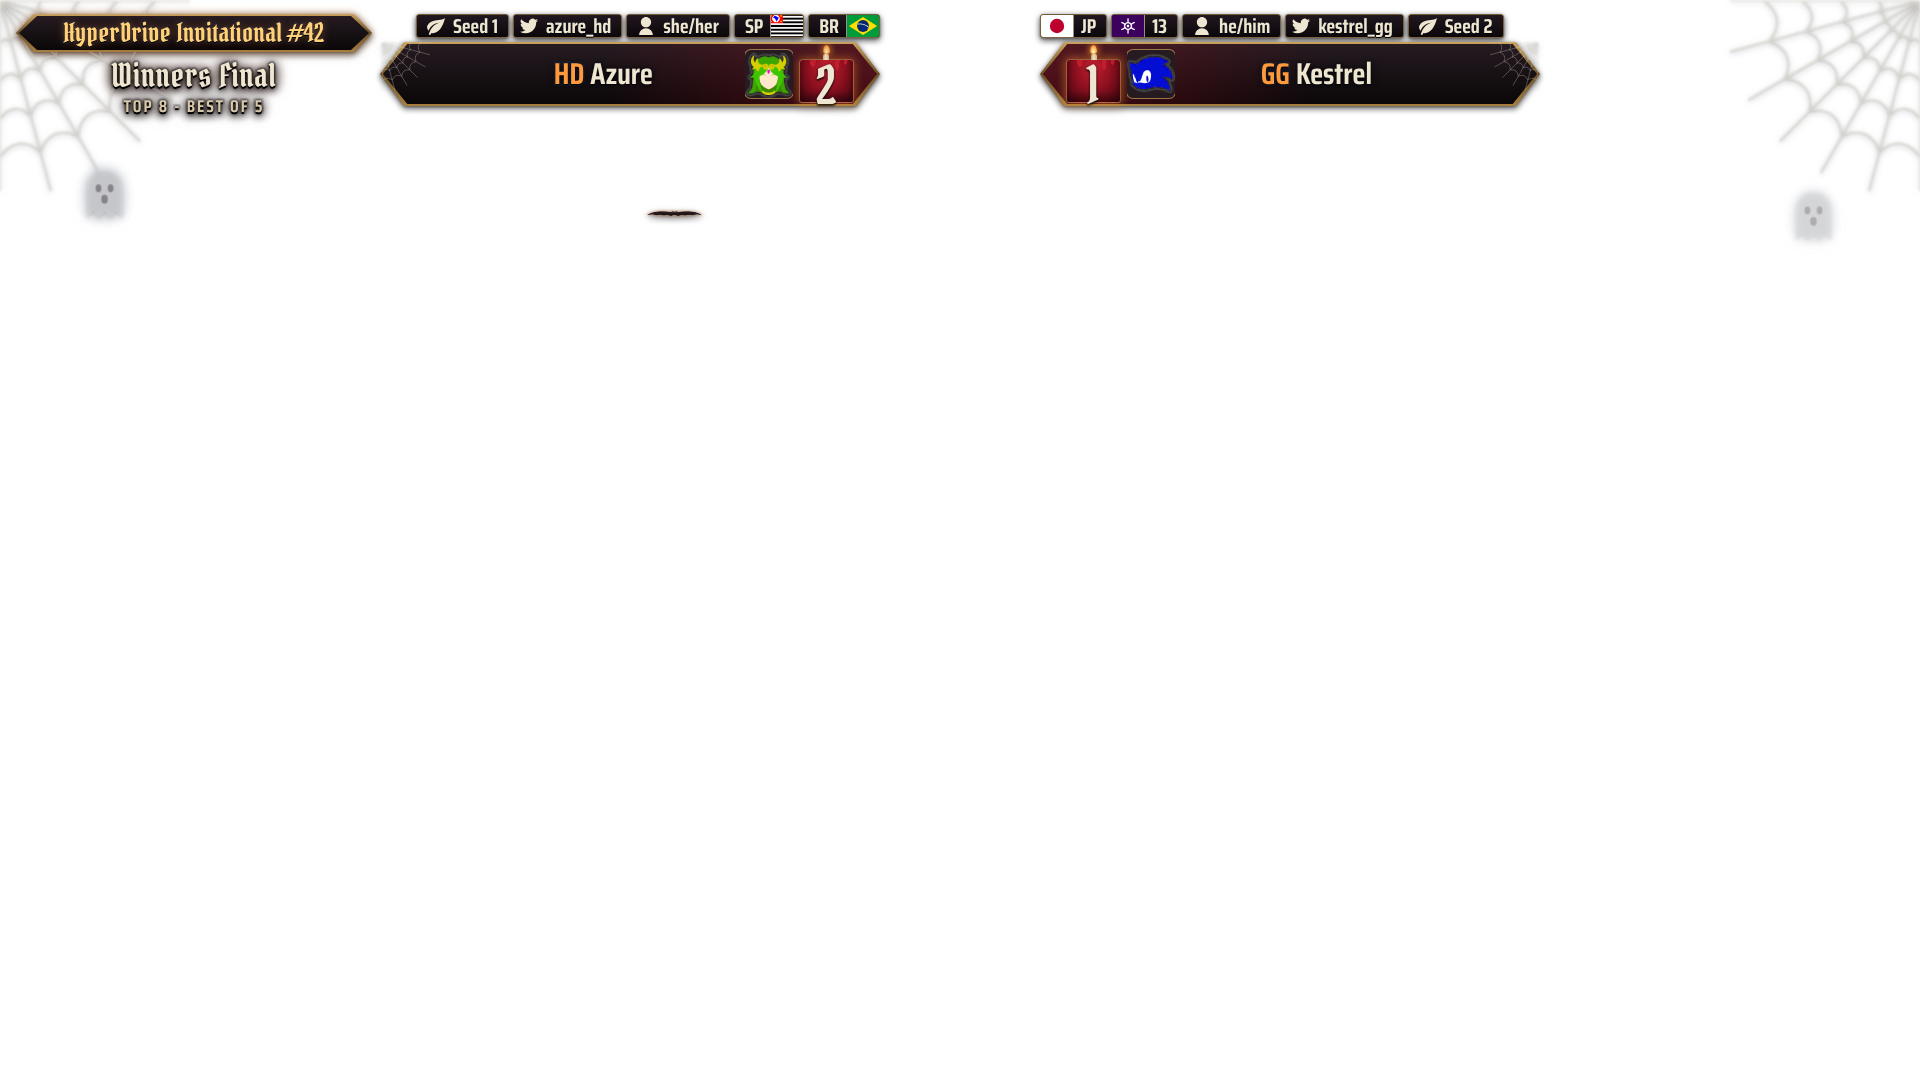
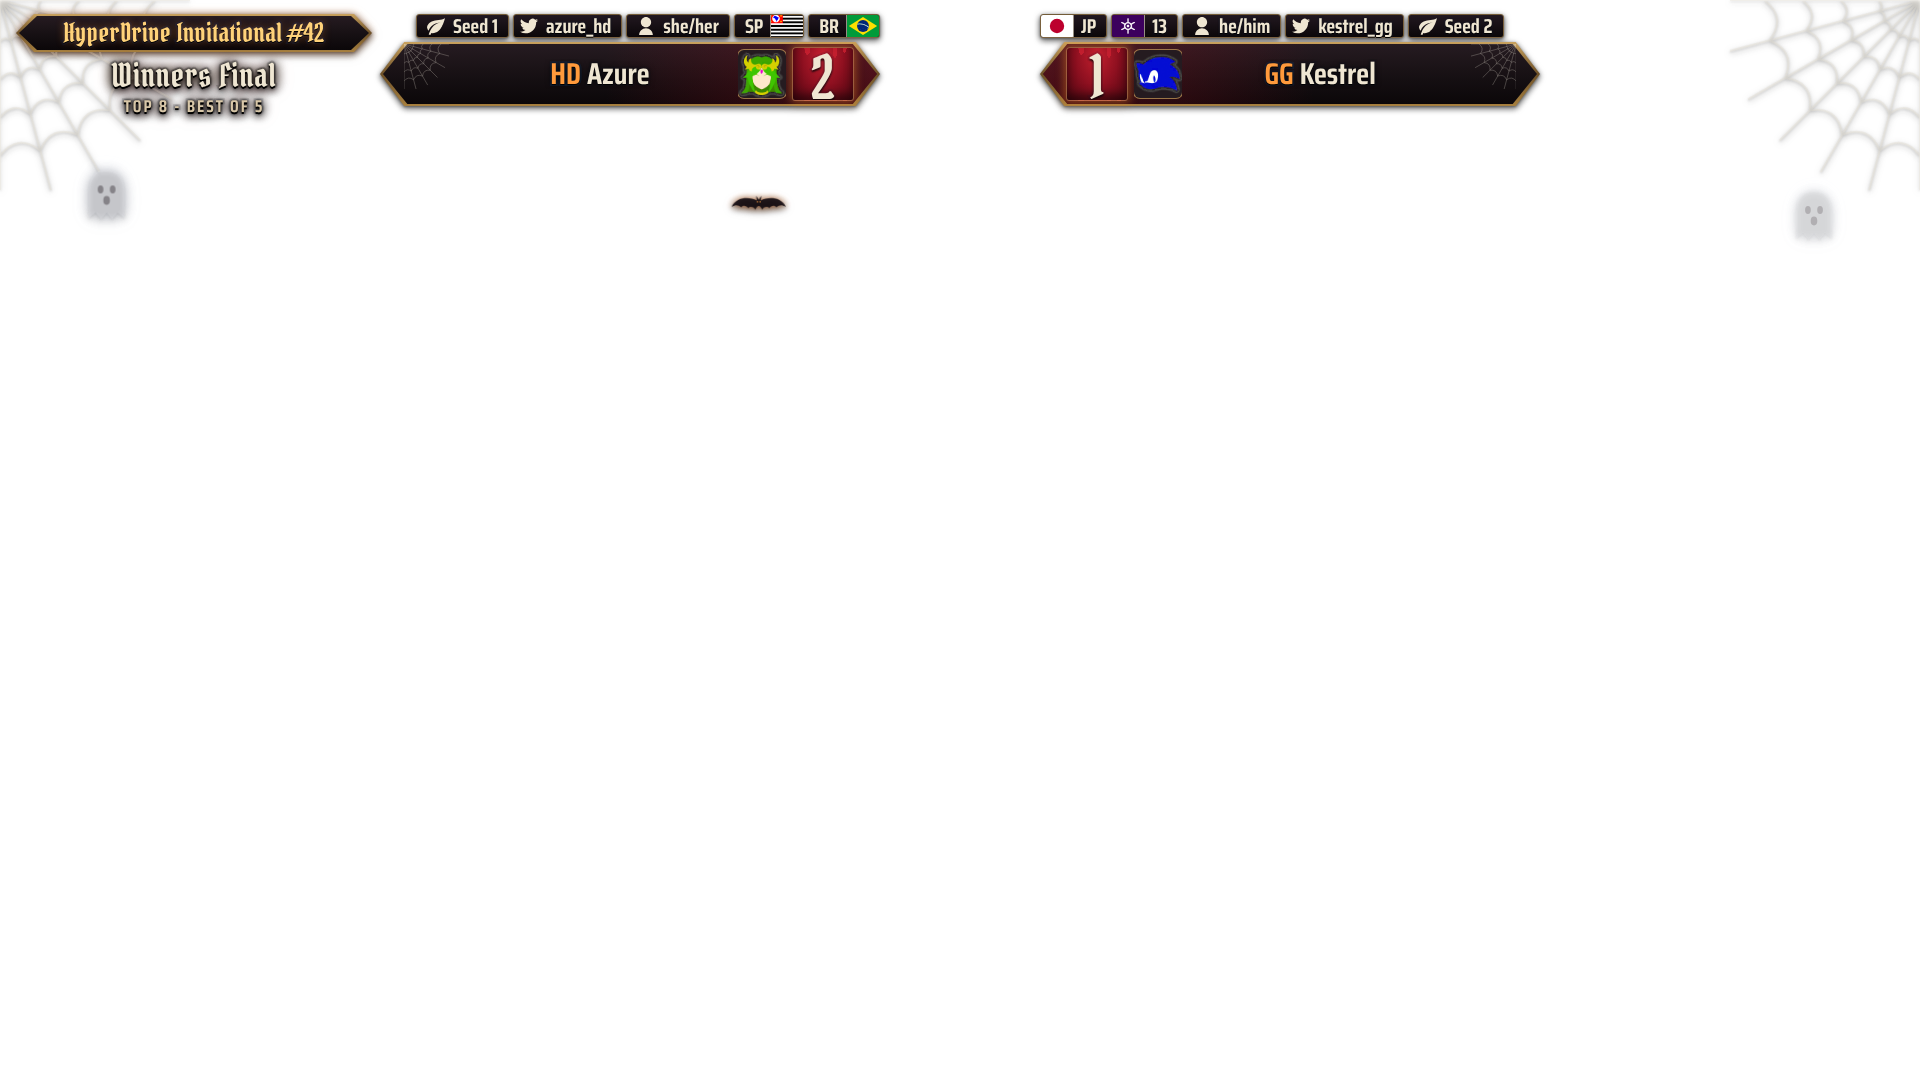
Halloween scoreboard: drop the score candle, keep bar webs inside
- Remove the candle and flame from the score box; the box is now
  vertically centered at nearly the full bar height, with larger digits
- Anchor each bar's cobweb where the pointed end meets the top edge,
  behind the bar's contents, so it stays inside the frame instead of
  spilling past the cut-away corner
- Previews regenerated

Claude-Session: https://claude.ai/code/session_01T33Lanh3Kb9Pbcp2KtWr24

diff --git a/layout/scoreboard - Halloween/halloween.css b/layout/scoreboard - Halloween/halloween.css
@@ -12,7 +12,7 @@
      2. Per-game tokens (bar height, plaque + caption spots)
      3. Undo the per-game skews (bars, text, chips)
      4. Player bar (pointed gothic ends)
-     5. Score: candlelit crimson box + candle
+     5. Score: candlelit crimson box
      6. Name / sponsor / icons
      7. Chips and flags
      8. Tournament plaque
@@ -62,7 +62,7 @@
 
 /* ── 2. Per-game tokens ──────────────────────────────────── */
 /* --hw-bar-h mirrors each game's bar height in index.css (sizes the
-   pointed ends, score box, candle and sponsor logo). Plaque spots reuse
+   pointed ends, score box and sponsor logo). Plaque spots reuse
    where the original layout put its top info / logo, so they clear
    each game's timer. */
 
@@ -82,7 +82,7 @@
 .halloween.arms       { --hw-plaque-top: 150px; --hw-plaque-w: 340px; }
 .halloween.skullgirls { --hw-plaque-w: 320px; }
 .halloween.pbrave     { --hw-bar-h: 65px; --hw-plaque-w: 300px; --hw-plaque-h: 32px; }
-.halloween.tekken8    { --hw-bar-h: 38px; --hw-plaque-w: 420px; --hw-candle: 8px; }
+.halloween.tekken8    { --hw-bar-h: 38px; --hw-plaque-w: 420px; }
 .halloween.sf6        { --hw-bar-h: 48px; --hw-plaque-w: 400px; }
 .halloween.tokon      { --hw-bar-h: 56px; --hw-plaque-w: 420px; }
 .halloween.mk1        { --hw-bar-h: 48px; --hw-plaque-top: 160px; --hw-plaque-w: 340px; }
@@ -139,8 +139,7 @@
 }
 
 /* Brass frame (::before) and dark fill (::after) share the pointed shape,
-   so the frame reads as a ~2px outline. Pseudo-elements, not the bar
-   itself, so the candle can rise out of the score box unclipped. */
+   so the frame reads as a ~2px outline. */
 .halloween .player.container::before,
 .halloween .player.container::after,
 .halloween .hw_plaque::before,
@@ -185,23 +184,18 @@
 
 
 /* ── 5. Score: candlelit crimson box ─────────────────────── */
-/* The box sits low in the bar with a small candle standing on it; the
-   candle stays inside the bar's height so it isn't cut off on games
-   whose bars are flush with the top of the screen. */
 
 .halloween .player.container {
-  --hw-candle: calc(var(--hw-bar-h) * 0.24);
-  --hw-score-h: calc(var(--hw-bar-h) - var(--hw-candle) - 5px);
+  --hw-score-h: calc(var(--hw-bar-h) - 10px);
 }
 
 .halloween .p1 .score,
 .halloween .p2 .score {
   position: relative;
-  align-self: flex-end;
-  width: calc(var(--hw-score-h) * 1.25);
+  align-self: center;
+  width: calc(var(--hw-score-h) * 1.15);
   height: var(--hw-score-h);
-  margin: 0 0 3px 0;
-  overflow: visible;
+  margin: 0;
   box-sizing: border-box;
   border-radius: 4px 4px 3px 3px;
   border: 1px solid rgba(201, 162, 94, 0.55);
@@ -215,52 +209,21 @@
   font-family: var(--hw-font-title);
   font-weight: 400;
   /* Pirata One's numerals are short for their size */
-  font-size: calc(var(--hw-score-h) * 1.18);
+  font-size: calc(var(--hw-score-h) * 1.1);
   line-height: 1;
   text-shadow: 0 2px 2px rgba(0, 0, 0, 0.7);
   animation: hw-glow 4.2s infinite;
 }
 
+.halloween .p2 .score { animation-delay: -1.9s; }
+
 .halloween .score > .text {
   position: relative;
   height: 100%;
-  /* Tall ascenders center the digit high; drop it clear of the candle.
+  /* Tall ascenders center the digit high; nudge it to the optical center.
      top, not transform: HyperDrive's text fitting owns transform. */
-  top: calc(var(--hw-score-h) * 0.1);
+  top: calc(var(--hw-score-h) * 0.07);
 }
-
-/* Candle stub */
-.halloween .score::before,
-.halloween .score::after {
-  content: "";
-  position: absolute;
-  pointer-events: none;
-}
-
-.halloween .score::before {
-  bottom: 100%;
-  left: calc(50% - 3px);
-  width: 6px;
-  height: calc(var(--hw-candle) * 0.42);
-  border-radius: 2px 2px 0 0;
-  background: linear-gradient(90deg, #b9a98c 0%, #f3ead8 45%, #cbbd9f 100%);
-}
-
-/* Flame */
-.halloween .score::after {
-  bottom: calc(100% + var(--hw-candle) * 0.42);
-  left: calc(50% - 3.5px);
-  width: 7px;
-  height: calc(var(--hw-candle) * 0.6);
-  border-radius: 50% 50% 45% 45% / 65% 65% 35% 35%;
-  background: radial-gradient(ellipse at 50% 72%, #fffbe6 0%, var(--hw-flame) 30%, var(--hw-ember) 65%, rgba(255, 90, 20, 0) 100%);
-  box-shadow: 0 0 6px 2px rgba(255, 150, 40, 0.55);
-  transform-origin: 50% 100%;
-  animation: hw-flame 1.7s ease-in-out infinite;
-}
-
-.halloween .p2 .score::after { animation-delay: -0.8s; }
-.halloween .p2 .score        { animation-delay: -1.9s; }
 
 .halloween .p1 .losers,
 .halloween .p2 .losers {
@@ -301,21 +264,23 @@
   height: calc(var(--hw-bar-h) - 8px);
 }
 
-/* Small cobweb strung in each bar's outer corner */
+/* Small cobweb in each bar's outer corner. Anchored where the pointed end
+   meets the top edge, inside the frame, so the whole web stays within the
+   bar; behind the bar's contents (above the fill and sponsor logo). */
 .halloween .hw_web {
   position: absolute;
-  top: 0;
-  width: calc(var(--hw-bar-h) * 0.75);
-  height: calc(var(--hw-bar-h) * 0.75);
-  z-index: 2;
-  opacity: 0.55;
+  top: 2px;
+  width: calc(var(--hw-bar-h) * 0.7);
+  height: calc(var(--hw-bar-h) * 0.7);
+  z-index: -1;
+  opacity: 0.5;
   pointer-events: none;
   background-size: contain;
   background-repeat: no-repeat;
 }
 
-.halloween .p1 .hw_web { left: 2px;  background-image: var(--hw-web-left); }
-.halloween .p2 .hw_web { right: 2px; background-image: var(--hw-web-right); }
+.halloween .p1 .hw_web { left: var(--hw-tip);  background-image: var(--hw-web-left); }
+.halloween .p2 .hw_web { right: var(--hw-tip); background-image: var(--hw-web-right); }
 
 
 /* ── 7. Chips and flags ──────────────────────────────────── */
@@ -576,14 +541,6 @@
   12%      { filter: drop-shadow(0 0 2px rgba(255, 130, 40, 0.15)); }
   14%      { filter: drop-shadow(0 0 6px rgba(255, 140, 50, 0.4)); }
   60%      { filter: drop-shadow(0 0 5px rgba(255, 130, 40, 0.35)); }
-}
-
-@keyframes hw-flame {
-  0%, 100% { transform: scale(1, 1) rotate(0deg);        opacity: 1; }
-  20%      { transform: scale(0.9, 1.12) rotate(-4deg);  opacity: 0.92; }
-  40%      { transform: scale(1.06, 0.92) rotate(3deg);  opacity: 1; }
-  55%      { transform: scale(0.94, 1.06) rotate(-2deg); opacity: 0.85; }
-  75%      { transform: scale(1.03, 0.96) rotate(2deg);  opacity: 0.97; }
 }
 
 @keyframes hw-flap {
